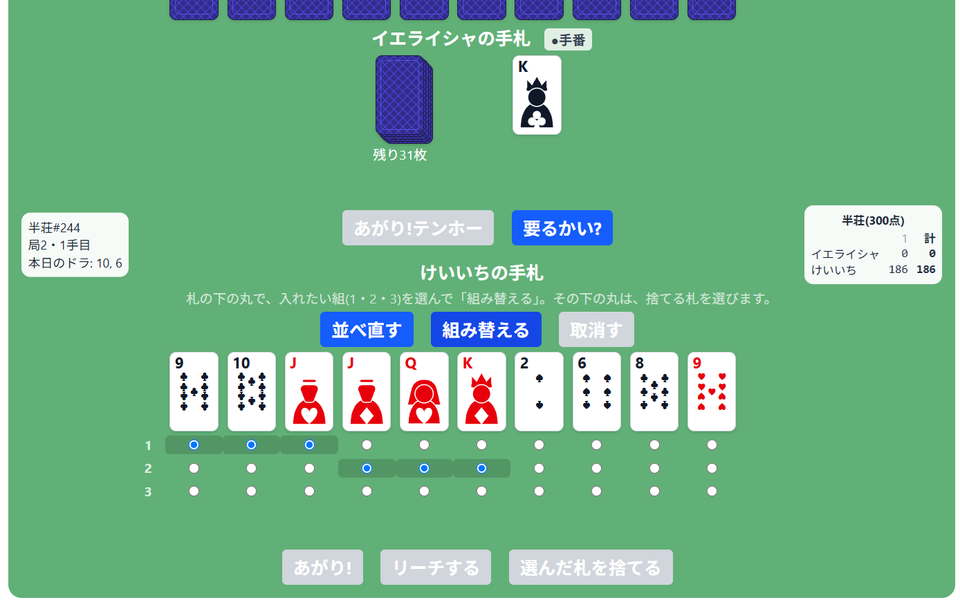
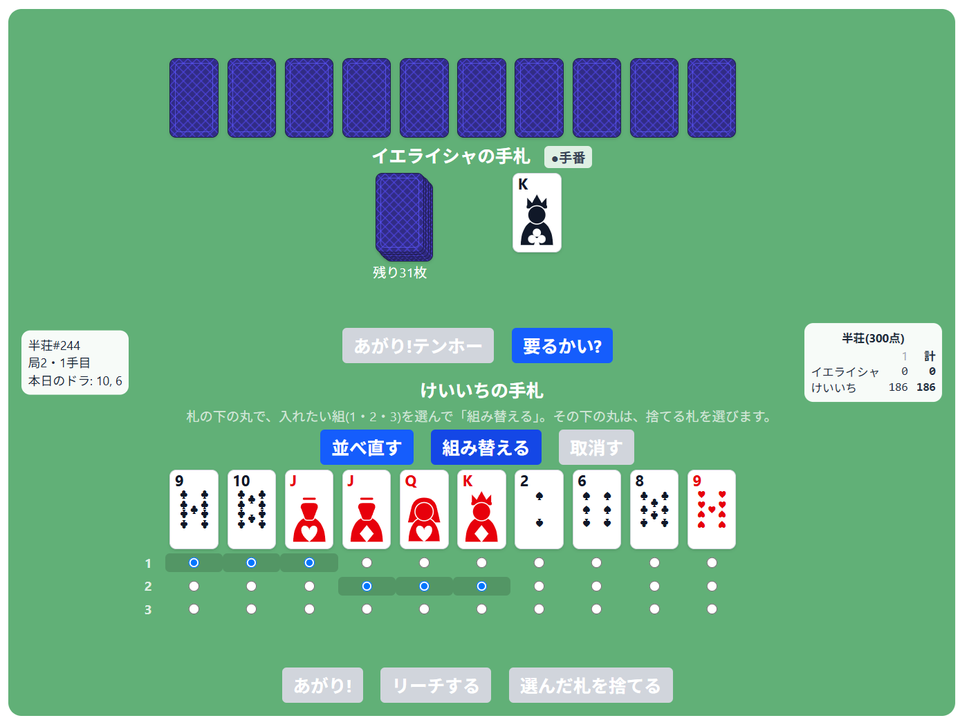
card-shotをcoverからcontainに変更、rummy1は全体表示に
クロップで組み替えガイドが切れる問題への対応。shot-nをそのまま
使い回す前提に立ち、object-fit:containで画像全体を表示する方針に
変更(他の商品はほぼ16:10ぴったりなので見た目はほぼ変わらない)。
rummy1のcard.pngはクロップ無しのshot-3全体に差し替え。

diff --git a/assets/style.css b/assets/style.css
@@ -95,7 +95,7 @@ h2.sec { margin: 0; font-family: var(--mincho); font-weight: 800; font-size: 30p
 .grid + .grid { margin-top: 48px; }
 .card { background: var(--card); border: 1px solid var(--line); display: flex; flex-direction: column; }
 .card-shot { aspect-ratio: 16 / 10; border-bottom: 1px solid var(--line); overflow: hidden; }
-.card-shot img { width: 100%; height: 100%; object-fit: cover; }
+.card-shot img { width: 100%; height: 100%; object-fit: contain; background: var(--card); }
 .card-shot.ph { border: 0; border-bottom: 1px solid var(--line); }
 .card-body { padding: 18px 20px 20px; display: flex; flex-direction: column; gap: 10px; flex-grow: 1; }
 .card-meta { display: flex; flex-wrap: wrap; gap: 6px; align-items: center; font-size: 12px; color: var(--ink-3); }

diff --git a/goods/rummy1/card.html b/goods/rummy1/card.html
@@ -1,5 +1,5 @@
 <article class="card">
-  <div class="card-shot"><img src="goods/rummy1/card.png" alt="海保ジンラミーの対局画面" width="960" height="600"></div>
+  <div class="card-shot"><img src="goods/rummy1/card.png" alt="海保ジンラミーの対局画面" width="960" height="718"></div>
   <div class="card-body">
     <div class="card-meta"><span class="tag tag-order">お取り寄せ</span>あそびもの</div>
     <h3>海保ジンラミー</h3>
